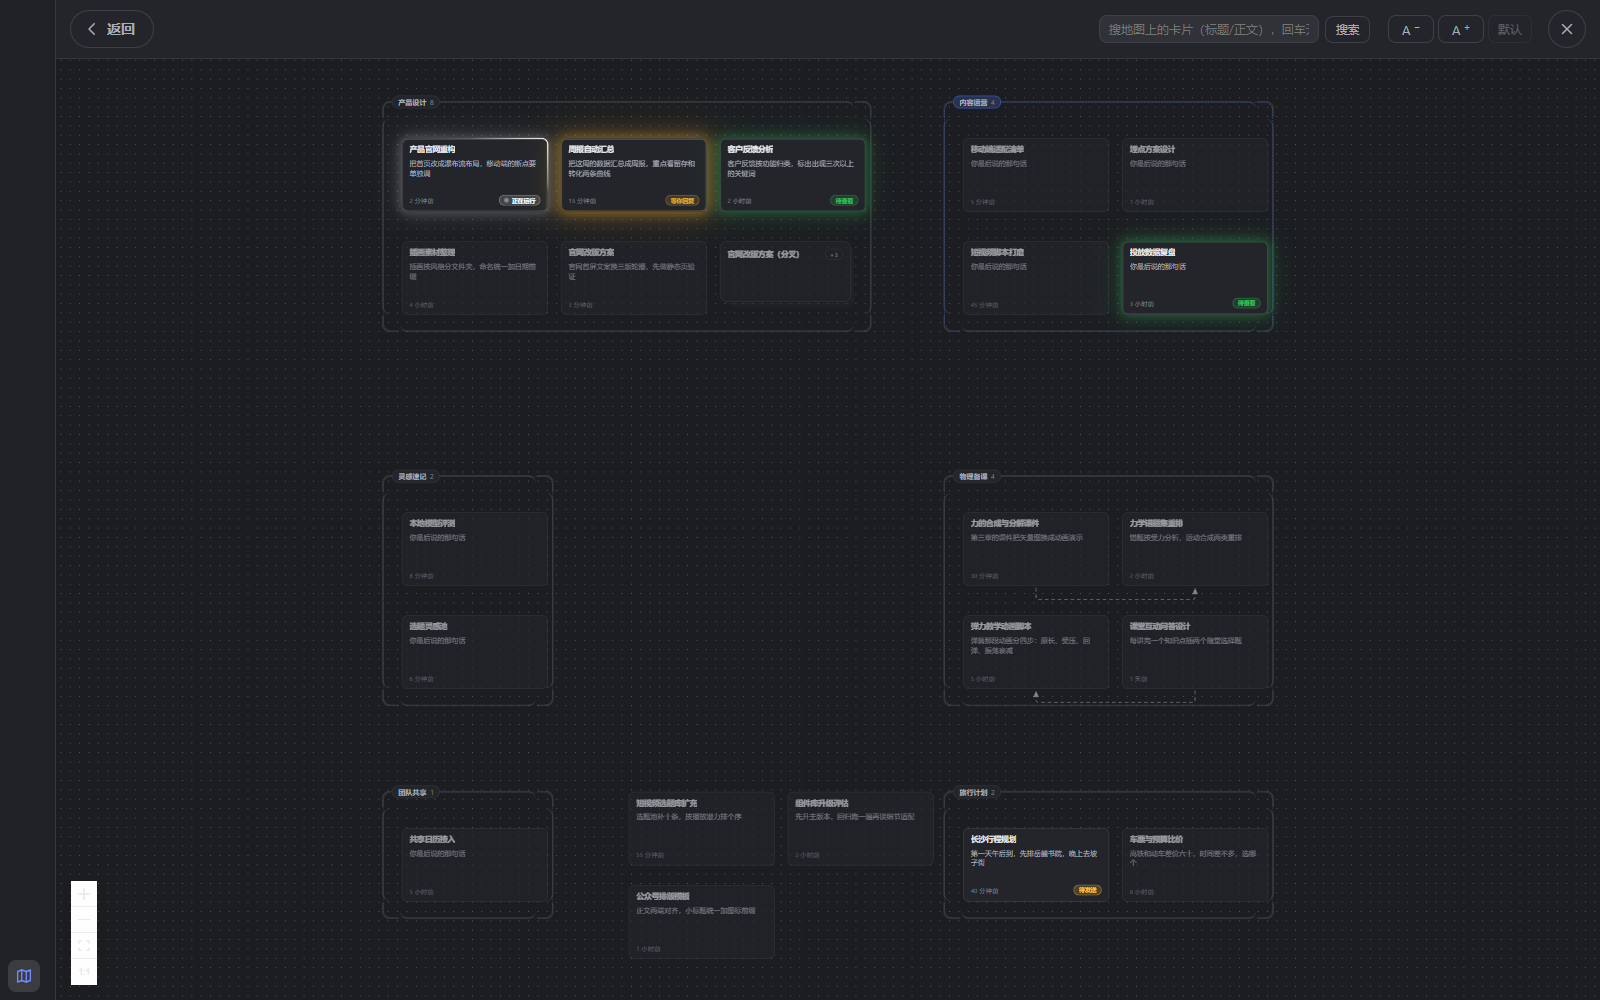
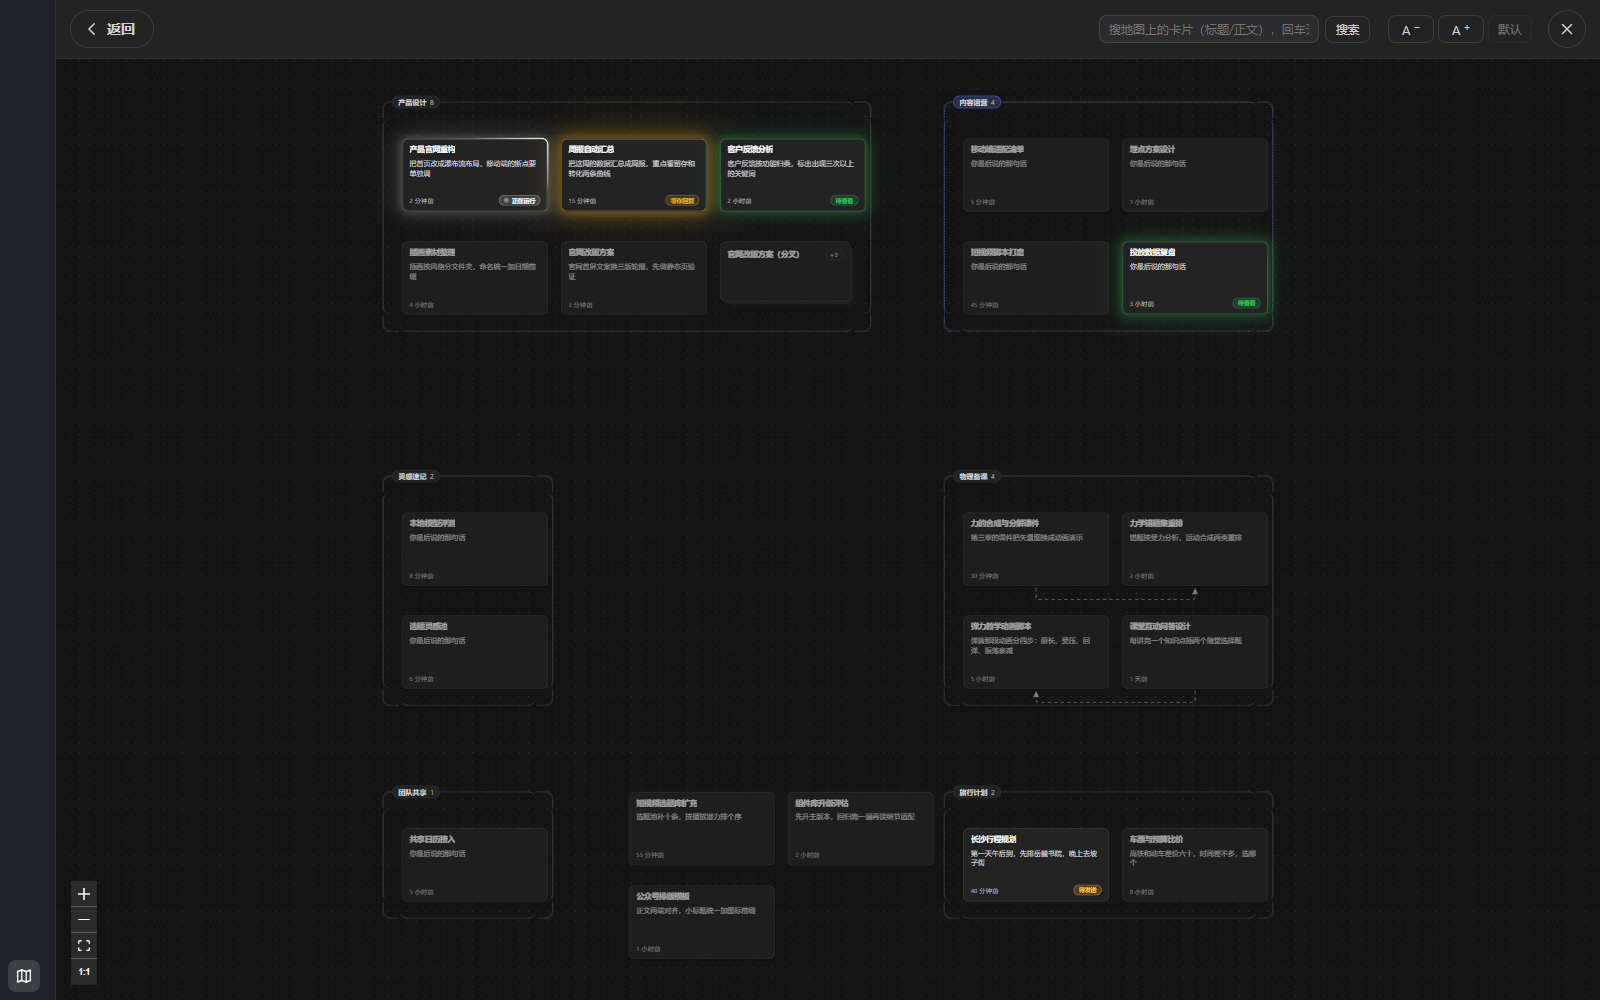
theme: 演示页/探针宿主页弃用手写主题 stub, 改用从 app.asar 抽取的真实 DSH 暗色 token(scripts/extract-theme.mjs → test/dsh-theme.css + data-ds-dark-theme); bg-base 1b1d21→151517, 边框改半透明白, 与宿主同源

diff --git a/test/dsh-theme.css b/test/dsh-theme.css
@@ -1,0 +1,4 @@
+/* Generated by scripts/extract-theme.mjs from the installed DSH app.asar.
+   Do not edit by hand — re-run the script after a DSH upgrade. */
+body{--dsw-static-amber-100: rgb(254, 245, 231);--dsw-static-amber-400: rgb(247, 173, 49);--dsw-static-amber-500: rgb(245, 158, 11);--dsw-static-amber-600: rgb(221, 134, 41);--dsw-static-amber-900: rgb(39, 36, 31);--dsw-static-blue-100: rgb(219, 234, 254);--dsw-static-blue-300: rgb(147, 197, 253);--dsw-static-blue-400: rgb(96, 165, 250);--dsw-static-blue-450: rgb(77, 147, 248);--dsw-static-blue-500: rgb(59, 130, 246);--dsw-static-blue-50: rgb(239, 246, 255);--dsw-static-blue-50p: rgb(234, 243, 255);--dsw-static-blue-600: rgb(37, 99, 235);--dsw-static-blue-75: rgb(229, 240, 255);--dsw-static-blue-800: rgb(30, 64, 175);--dsw-static-blue-900: rgb(14, 48, 116);--dsw-static-blue-950: rgb(23, 37, 84);--dsw-static-deepseek-100: rgb(228, 237, 253);--dsw-static-deepseek-200: rgb(211, 226, 255);--dsw-static-deepseek-300: rgb(183, 200, 254);--dsw-static-deepseek-400: rgb(122, 170, 255);--dsw-static-deepseek-450: rgb(86, 134, 254);--dsw-static-deepseek-500: rgb(65, 118, 230);--dsw-static-deepseek-50: rgb(237, 243, 254);--dsw-static-deepseek-600: rgb(72, 104, 178);--dsw-static-deepseek-700-delete: rgb(47, 76, 143);--dsw-static-deepseek-800: rgb(52, 65, 91);--dsw-static-deepseek-900: rgb(40, 49, 66);--dsw-static-green-100: rgb(230, 250, 237);--dsw-static-green-400: rgb(78, 209, 126);--dsw-static-green-500: rgb(34, 197, 94);--dsw-static-green-500-a08: rgb(34 197 94 / 8%);--dsw-static-green-500-a12: rgb(34 197 94 / 12%);--dsw-static-green-900: rgb(35, 60, 44);--dsw-static-neutral-00: rgb(255, 255, 255);--dsw-static-neutral-1000: rgb(0, 0, 0);--dsw-static-neutral-100: rgb(245, 245, 245);--dsw-static-neutral-150: rgb(237, 237, 237);--dsw-static-neutral-200: rgb(229, 229, 229);--dsw-static-neutral-250: rgb(220, 220, 220);--dsw-static-neutral-300: rgb(212, 212, 212);--dsw-static-neutral-400: rgb(162, 164, 166);--dsw-static-neutral-500: rgb(127, 130, 135);--dsw-static-neutral-50: rgb(250, 250, 250);--dsw-static-neutral-550: rgb(101, 103, 107);--dsw-static-neutral-600: rgb(84, 85, 87);--dsw-static-neutral-700: rgb(60, 60, 61);--dsw-static-neutral-800: rgb(41, 41, 41);--dsw-static-neutral-850: rgb(33, 33, 35);--dsw-static-neutral-900: rgb(15, 15, 15);--dsw-static-neutral-bluish-00: rgb(255, 255, 255);--dsw-static-neutral-bluish-1000: rgb(15, 17, 21);--dsw-static-neutral-bluish-100: rgb(235, 238, 242);--dsw-static-neutral-bluish-150: rgb(233, 236, 242);--dsw-static-neutral-bluish-200: rgb(225, 229, 238);--dsw-static-neutral-bluish-300: rgb(207, 211, 214);--dsw-static-neutral-bluish-400: rgb(173, 178, 184);--dsw-static-neutral-bluish-500: rgb(151, 157, 166);--dsw-static-neutral-bluish-50: rgb(249, 250, 251);--dsw-static-neutral-bluish-600: rgb(129, 133, 140);--dsw-static-neutral-bluish-60: rgb(245, 246, 247);--dsw-static-neutral-bluish-700: rgb(97, 102, 107);--dsw-static-neutral-bluish-750: rgb(67, 69, 74);--dsw-static-neutral-bluish-75: rgb(241, 243, 245);--dsw-static-neutral-bluish-800: rgb(53, 54, 56);--dsw-static-neutral-bluish-850: rgb(44, 44, 46);--dsw-static-neutral-bluish-875: rgb(35, 35, 36);--dsw-static-neutral-bluish-900: rgb(27, 27, 28);--dsw-static-neutral-bluish-950: rgb(21, 21, 23);--dsw-static-red-100: rgb(254, 226, 226);--dsw-static-red-400: rgb(242, 90, 90);--dsw-static-red-400-a12: rgb(242 90 90 / 12%);--dsw-static-red-500: rgb(239, 68, 68);--dsw-static-red-50: rgb(254, 242, 242);--dsw-static-red-600: rgb(236, 19, 19);--dsw-static-red-600-a08: rgb(236 19 19 / 8%);--dsw-static-red-900: rgb(87, 12, 12)}
+body[data-ds-dark-theme]{--dsw-alias-bg-base: var(--dsw-static-neutral-bluish-950);--dsw-alias-bg-document-preview: var(--dsw-static-neutral-bluish-950);--dsw-alias-bg-document-selection: color-mix(in srgb, var(--dsw-static-blue-500) 40%, transparent);--dsw-alias-label-document-preview: var(--dsw-static-neutral-bluish-300);--dsw-alias-bg-layer-1: var(--dsw-static-neutral-bluish-875);--dsw-alias-bg-layer-2: var(--dsw-static-neutral-bluish-850);--dsw-alias-bg-layer-3: var(--dsw-static-neutral-bluish-800);--dsw-alias-bg-mask-1: rgba(0, 0, 0, .5);--dsw-alias-bg-mask-2: rgba(0, 0, 0, .2);--dsw-alias-bg-mask-3: rgba(0, 0, 0, .48);--dsw-alias-bg-mask-photo: rgba(0, 0, 0, .88);--dsw-alias-bg-mask-drop: rgba(39, 39, 48, .7);--dsw-alias-bg-module-platform: var(--dsw-static-neutral-bluish-800);--dsw-alias-bg-multi-select: var(--dsw-static-neutral-850);--dsw-alias-bg-overlay: var(--dsw-static-neutral-bluish-700);--dsw-alias-bg-skeleton: rgba(255, 255, 255, .08);--dsw-alias-border-inverted2: rgba(255, 255, 255, .08);--dsw-alias-border-inverted: rgba(255, 255, 255, .06);--dsw-alias-border-l1: rgba(255, 255, 255, .06);--dsw-alias-border-l2-darkmode-thin: rgba(255, 255, 255, .06);--dsw-alias-border-l2: rgba(255, 255, 255, .12);--dsw-alias-border-l3: rgba(255, 255, 255, .16);--dsw-alias-border-l4: rgba(255, 255, 255, .2);--dsw-alias-brand-primary-invert: var(--dsw-static-neutral-bluish-50);--dsw-alias-brand-primary-new-colorprimary-new-color: var(--dsw-static-deepseek-450);--dsw-alias-brand-primary: var(--dsw-static-neutral-bluish-50);--dsw-alias-brand-text: var(--dsw-static-neutral-bluish-50);--dsw-alias-button-contrast-fill: var(--dsw-static-neutral-bluish-50);--dsw-alias-button-elevated-fill: var(--dsw-static-neutral-bluish-750);--dsw-alias-button-floating-fill: var(--dsw-static-neutral-bluish-850);--dsw-alias-button-floating-hover: var(--dsw-static-neutral-bluish-800);--dsw-alias-button-ghost-active-border: var(--dsw-static-neutral-bluish-600);--dsw-alias-button-ghost-active-fill: var(--dsw-static-neutral-bluish-750);--dsw-alias-button-ghost-active-hover: var(--dsw-static-neutral-bluish-700);--dsw-alias-button-info-fill: var(--dsw-static-deepseek-400);--dsw-alias-button-info-hover: var(--dsw-static-deepseek-500);--dsw-alias-button-primary-dimmed: var(--dsw-static-neutral-bluish-750);--dsw-alias-button-primary-fill: var(--dsw-alias-brand-primary);--dsw-alias-button-primary-hover: var(--dsw-static-neutral-bluish-100);--dsw-alias-button-tool-bar-fill-invisible: rgba(31, 31, 31, .36);--dsw-alias-button-tool-bar-fill: rgba(84, 85, 87, .5);--dsw-alias-button-tool-bar-hover: rgba(84, 85, 87, .6);--dsw-alias-interactive-bg-active: rgba(255, 255, 255, .14);--dsw-alias-interactive-bg-hover-accent: rgba(255, 255, 255, .24);--dsw-alias-interactive-bg-hover-danger: rgba(242, 90, 90, .15);--dsw-alias-interactive-bg-hover-solid: var(--dsw-static-neutral-bluish-800);--dsw-alias-interactive-bg-hover: rgba(255, 255, 255, .08);--dsw-alias-label-caption: var(--dsw-static-neutral-bluish-600);--dsw-alias-label-deep-diving: color-mix(in srgb, var(--dsw-static-deepseek-450) 55%, var(--dsw-static-neutral-bluish-400));--dsw-alias-label-deep-diving-shimmer: color-mix(in srgb, var(--dsw-static-blue-300) 65%, var(--dsw-static-deepseek-400));--dsw-alias-label-dimmed: var(--dsw-static-neutral-bluish-750);--dsw-alias-label-primary-bluish: var(--dsw-static-neutral-bluish-50);--dsw-alias-label-primary-dimmed: var(--dsw-static-neutral-bluish-100);--dsw-alias-label-primary-foreground: var(--dsw-static-neutral-bluish-1000);--dsw-alias-label-primary-inverted: var(--dsw-static-neutral-bluish-800);--dsw-alias-label-primary: var(--dsw-static-neutral-bluish-50);--dsw-alias-label-secondary: var(--dsw-static-neutral-bluish-300);--dsw-alias-label-shimmer: color-mix(in srgb, var(--dsw-static-neutral-00) 45%, transparent);--dsw-alias-label-tertiary: var(--dsw-static-neutral-bluish-400);--dsw-alias-menu-icon: var(--dsw-alias-label-primary-dimmed);--dsw-alias-link: var(--dsw-static-deepseek-400);--dsw-alias-markdown-citation: var(--dsw-static-neutral-bluish-800);--dsw-alias-markdown-code-block-banner: var(--dsw-static-neutral-bluish-850);--dsw-alias-markdown-code-block: var(--dsw-static-neutral-bluish-900);--dsw-alias-markdown-code-segment-selected: var(--dsw-static-neutral-bluish-800);--dsw-alias-markdown-code-segment-unselected: var(--dsw-static-neutral-bluish-900);--dsw-alias-markdown-inline-code: var(--dsw-static-neutral-800);--dsw-alias-markdown-placeholder: var(--dsw-static-neutral-bluish-850);--dsw-alias-markdown-tag: var(--dsw-static-neutral-bluish-850);--dsw-alias-scrollbar-bg-l1: var(--dsw-static-neutral-700);--dsw-alias-scrollbar-bg-l2: var(--dsw-static-neutral-600);--dsw-alias-scrollbar-hover-l1: var(--dsw-static-neutral-600);--dsw-alias-scrollbar-hover-l2: var(--dsw-static-neutral-550);--dsw-alias-state-business-primary: var(--dsw-static-deepseek-400);--dsw-alias-state-business-tertiary: var(--dsw-static-deepseek-800);--dsw-alias-code-diff-added: var(--dsw-static-green-500-a12);--dsw-alias-code-diff-deleted: var(--dsw-static-red-400-a12);--dsw-alias-file-diff-added-bg: rgb(31, 49, 36);--dsw-alias-file-diff-added-gutter: rgb(19, 32, 22);--dsw-alias-file-diff-added-marker: rgb(65, 201, 119);--dsw-alias-file-diff-deleted-bg: rgb(60, 31, 27);--dsw-alias-file-diff-deleted-gutter: rgb(40, 19, 14);--dsw-alias-file-diff-deleted-marker: rgb(250, 66, 62);--dsw-alias-state-error-primary: var(--dsw-static-red-400);--dsw-alias-state-error-secondary: var(--dsw-static-red-400);--dsw-alias-state-idle-primary: var(--dsw-static-neutral-600);--dsw-alias-state-success-primary: var(--dsw-static-green-500);--dsw-alias-state-success-secondary: var(--dsw-static-green-400);--dsw-alias-state-success-tertiary: var(--dsw-static-green-900);--dsw-alias-state-warn-label: var(--dsw-static-amber-600);--dsw-alias-state-warn-primary: var(--dsw-static-amber-500);--dsw-alias-state-warn-secondary: var(--dsw-static-amber-400);--dsw-alias-state-warn-tertiary: var(--dsw-static-amber-900);--dsw-alias-switch-thumb: var(--dsw-static-neutral-bluish-400);--dsw-alias-toast-bg: var(--dsw-static-neutral-bluish-750);--dsw-alias-toast-label: var(--dsw-static-neutral-bluish-00);--dsw-alias-turn-trigger-bg: var(--dsw-alias-interactive-bg-hover);--dsw-alias-turn-trigger-bg-hover: var(--dsw-alias-interactive-bg-active);--dsw-alias-tooltip-bg: var(--dsw-static-neutral-bluish-750);--dsw-alias-tooltip-key-bg: color-mix(in srgb, var(--dsw-alias-tooltip-bg), white 18%);--dsw-specific-bubble-highlight: var(--dsw-static-neutral-bluish-750);--dsw-specific-bubble: var(--dsw-static-neutral-bluish-850);--dsw-specific-input-major: var(--dsw-static-neutral-bluish-850);--dsw-specific-login-input: var(--dsw-static-neutral-bluish-900);--dsw-menu-surface-fill: rgba(67, 69, 74, .45);--dsw-alias-menu-group-header-fill: rgba(48, 49, 54, .94);--dsw-specific-menu: var(--dsw-menu-surface-fill);--dsw-specific-selector: var(--dsw-static-neutral-bluish-800);--dsw-specific-sidebar-fill: var(--dsw-static-neutral-bluish-900);--dsw-specific-sidebar-nav-item-active-accent: var(--dsw-static-neutral-bluish-800);--dsw-specific-sidebar-nav-item-active: var(--dsw-static-neutral-bluish-750);--dsw-specific-sidebar-nav-item-hover: var(--dsw-static-neutral-bluish-850);--dsw-specific-tip: var(--dsw-static-neutral-bluish-800)}

diff --git a/test/index.html b/test/index.html
@@ -4,28 +4,18 @@
 <meta charset="utf-8" />
 <link rel="icon" href="data:," />
 <title>dsh-talk-map offline harness</title>
+<!-- The real DSH theme, extracted from the installed app.asar by
+     scripts/extract-theme.mjs. The dark palette activates via
+     data-ds-dark-theme on <body>, exactly like the shell does. -->
+<link rel="stylesheet" href="dsh-theme.css" />
 <style>
-  html, body { margin: 0; height: 100%; background: #1b1d21; color: #e7e9ee;
+  html, body { margin: 0; height: 100%; background: var(--dsw-alias-bg-base, #151517);
+    color: var(--dsw-alias-label-primary, #f5f6f7);
     font-family: -apple-system, "Segoe UI", "Microsoft YaHei", sans-serif; }
   #host { position: relative; height: 100vh; }
-  /* The shell's own theme variables, minimally stubbed. */
-  :root {
-    --dsw-alias-bg-base: #1b1d21;
-    --dsw-alias-bg-layer-1: #23252a;
-    --dsw-alias-bg-mask-2: rgba(0, 0, 0, .45);
-    --dsw-alias-label-primary: #e7e9ee;
-    --dsw-alias-label-secondary: #a9aeb9;
-    --dsw-alias-label-tertiary: #7d828d;
-    --dsw-alias-border-l1: #33363d;
-    --dsw-alias-border-l2: #3d4047;
-    --dsw-alias-border-l3: #4a4e57;
-    --dsw-alias-brand-primary: #6f8dff;
-    --dsw-alias-interactive-bg-hover: rgba(255, 255, 255, .07);
-    --dsw-alias-interactive-bg-active: rgba(255, 255, 255, .12);
-  }
 </style>
 </head>
-<body>
+<body data-ds-dark-theme>
   <div id="host"></div>
   <script src="../node_modules/react/umd/react.production.min.js"></script>
   <script src="../node_modules/react-dom/umd/react-dom.production.min.js"></script>

diff --git a/demo/index.html b/demo/index.html
@@ -4,27 +4,18 @@
 <meta charset="utf-8" />
 <link rel="icon" href="data:," />
 <title>对话地图 · 交互演示（真实插件渲染）</title>
+<!-- The real DSH theme, extracted from the installed app.asar by
+     scripts/extract-theme.mjs (see test/dsh-theme.css). Dark palette via
+     data-ds-dark-theme on <body>, exactly like the shell. -->
+<link rel="stylesheet" href="../test/dsh-theme.css" />
 <style>
-  html, body { margin: 0; height: 100%; background: #1b1d21; color: #e7e9ee;
+  html, body { margin: 0; height: 100%; background: var(--dsw-alias-bg-base, #151517);
+    color: var(--dsw-alias-label-primary, #f5f6f7);
     font-family: -apple-system, "Segoe UI", "Microsoft YaHei", sans-serif; }
   #host { position: relative; height: 100vh; }
-  :root {
-    --dsw-alias-bg-base: #1b1d21;
-    --dsw-alias-bg-layer-1: #23252a;
-    --dsw-alias-bg-mask-2: rgba(0, 0, 0, .45);
-    --dsw-alias-label-primary: #e7e9ee;
-    --dsw-alias-label-secondary: #a9aeb9;
-    --dsw-alias-label-tertiary: #7d828d;
-    --dsw-alias-border-l1: #33363d;
-    --dsw-alias-border-l2: #3d4047;
-    --dsw-alias-border-l3: #4a4e57;
-    --dsw-alias-brand-primary: #6f8dff;
-    --dsw-alias-interactive-bg-hover: rgba(255, 255, 255, .07);
-    --dsw-alias-interactive-bg-active: rgba(255, 255, 255, .12);
-  }
 </style>
 </head>
-<body>
+<body data-ds-dark-theme>
   <div id="host"></div>
   <script>window.__talkMapDemo = true</script>
   <script src="../node_modules/react/umd/react.production.min.js"></script>
